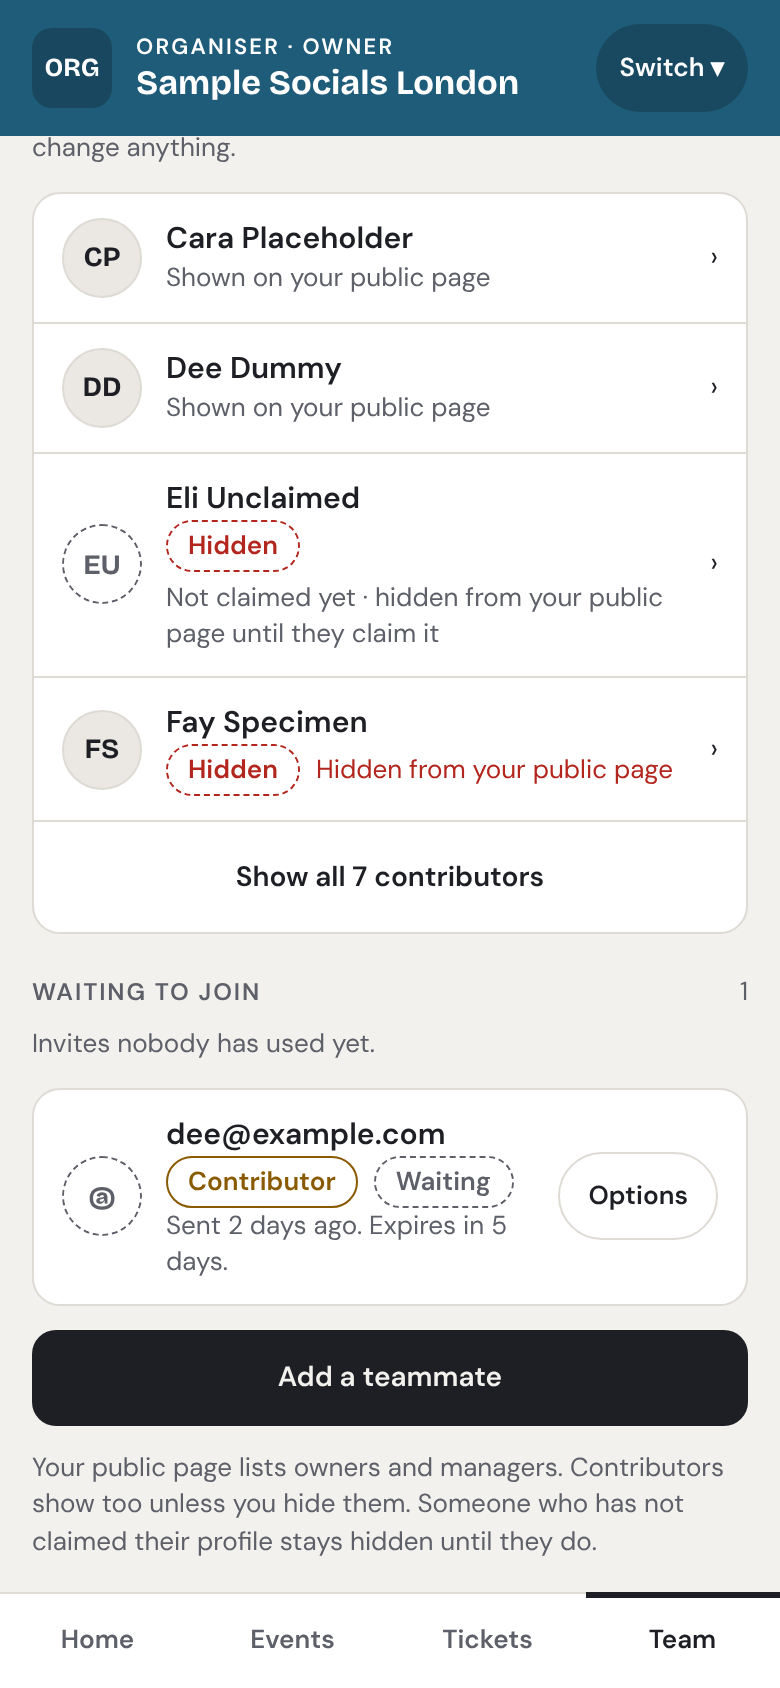
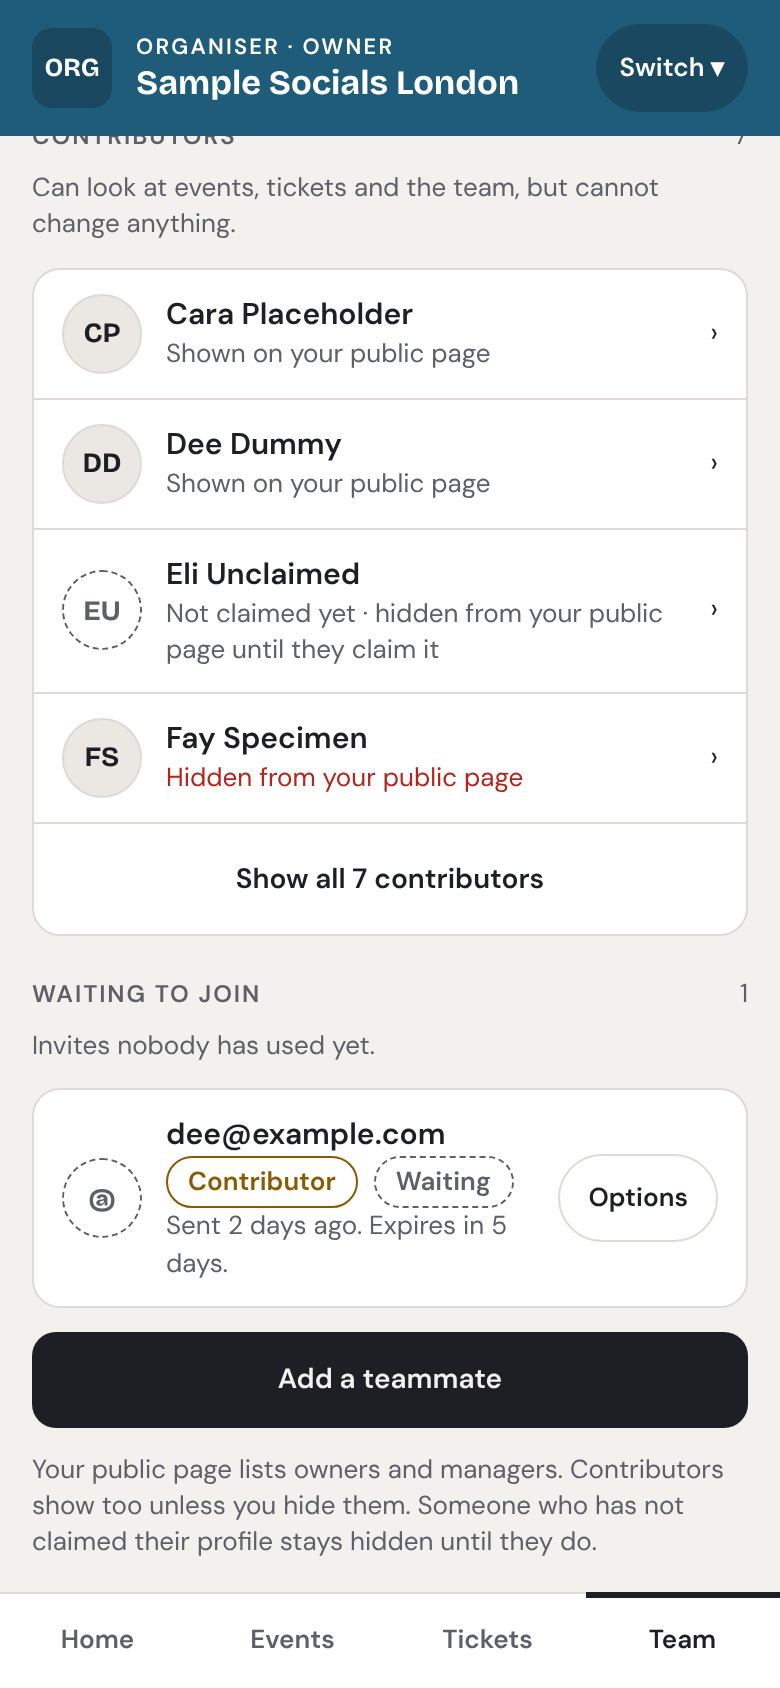
docs(organiser-team): fix round 2, contributor note and Waiting hidden, picked-row sliver, Hidden dedupe, end-scroll shots [worker-done dt_9117e94daf97]
Claude-Session: https://claude.ai/code/session_01WoGkiDr3eH8qkC2n9Y8F2C

diff --git a/docs/design/profile-dash/organiser-team-option-b.html b/docs/design/profile-dash/organiser-team-option-b.html
@@ -84,6 +84,7 @@ body.full .scroll{overflow:visible}
 .chip{font-size:12px;font-weight:700;border-radius:999px;padding:3px 10px;white-space:nowrap;flex:none;border:1px solid currentColor}
 .chip.owner{color:var(--c-org)}.chip.manager{color:var(--c-dj)}.chip.contributor{color:var(--c-teacher)}
 .chip.hid{color:var(--danger);border-style:dashed}
+.card:has(>.row.picked){overflow:hidden;flex:none}
 .row.picked{background:var(--ink-soft)}
 .tick{font-weight:700;min-width:20px;text-align:center}
 .chip.wait{color:var(--muted);border-style:dashed}.chip.bad{color:var(--danger)}
@@ -151,7 +152,7 @@ function group(s,r){
 }
 // Waiting to join: after Contributors, first 2 live invites, expired ones folded until "Show all".
 function waitGroup(s){
- if(!s.inv.length)return '';
+ if(!s.inv.length||!canEdit())return ''; // contributors cannot act on invites, so they do not see the group
  const rows=s.inv.map((v,i)=>[v,i]),live=rows.filter(x=>!x[0].bad),dead=rows.filter(x=>x[0].bad);
  const shown=OPEN.wait?live.concat(dead):live.slice(0,2);
  const rest=s.inv.length-shown.length;
@@ -220,7 +221,7 @@ function pubLine(p){
 function avatar(p){return `<span class="av ${p.stub?'stub':''}" aria-hidden="true">${ini(p.n)}</span>`}
 function personRow(p,i,showChip){
  const lbl=`${p.n}, ${ROLE[p.role].n}${p.stub?', not claimed yet':''}`;
- const inner=`${avatar(p)}<span class="t"><b>${p.n}</b><span class="meta">${showChip?chip(p.role):''}${p.hidden||p.stub?'<span class="chip hid">Hidden</span>':''}${pubLine(p)}</span></span>`;
+ const inner=`${avatar(p)}<span class="t"><b>${p.n}</b><span class="meta">${showChip?chip(p.role):''}${pubLine(p)}</span></span>`;
  return canEdit()?`<button class="row" data-act="person" data-k="${i}" aria-label="${lbl}. Open">${inner}<span aria-hidden="true">&rsaquo;</span></button>`:`<div class="row">${inner}</div>`;
 }
 // Contributors never see a full invitee email: d***@example.com.
@@ -246,6 +247,7 @@ function roleKey(){
  return `<div class="card">${ORDER.map(r=>`<div class="roleline">${chip(r)}<span>${ROLE[r].can}</span></div>`).join('')}</div>`;
 }
 function publicNote(){
+ if(!canEdit())return `<p class="why">The public page lists owners and managers. Contributors show unless an owner hides them. Someone who has not claimed their profile stays hidden until they do.</p>`;
  return `<p class="why">Your public page lists owners and managers. Contributors show too unless you hide them. Someone who has not claimed their profile stays hidden until they do.</p>`;
 }
 function loadingBody(){

diff --git a/docs/design/profile-dash/organiser-team-option-a.html b/docs/design/profile-dash/organiser-team-option-a.html
@@ -84,6 +84,7 @@ body.full .scroll{overflow:visible}
 .chip{font-size:12px;font-weight:700;border-radius:999px;padding:3px 10px;white-space:nowrap;flex:none;border:1px solid currentColor}
 .chip.owner{color:var(--c-org)}.chip.manager{color:var(--c-dj)}.chip.contributor{color:var(--c-teacher)}
 .chip.hid{color:var(--danger);border-style:dashed}
+.card:has(>.row.picked){overflow:hidden;flex:none}
 .row.picked{background:var(--ink-soft)}
 .tick{font-weight:700;min-width:20px;text-align:center}
 .chip.wait{color:var(--muted);border-style:dashed}.chip.bad{color:var(--danger)}
@@ -199,7 +200,7 @@ function pubLine(p){
 function avatar(p){return `<span class="av ${p.stub?'stub':''}" aria-hidden="true">${ini(p.n)}</span>`}
 function personRow(p,i,showChip){
  const lbl=`${p.n}, ${ROLE[p.role].n}${p.stub?', not claimed yet':''}`;
- const inner=`${avatar(p)}<span class="t"><b>${p.n}</b><span class="meta">${showChip?chip(p.role):''}${p.hidden||p.stub?'<span class="chip hid">Hidden</span>':''}${pubLine(p)}</span></span>`;
+ const inner=`${avatar(p)}<span class="t"><b>${p.n}</b><span class="meta">${showChip?chip(p.role):''}${pubLine(p)}</span></span>`;
  return canEdit()?`<button class="row" data-act="person" data-k="${i}" aria-label="${lbl}. Open">${inner}<span aria-hidden="true">&rsaquo;</span></button>`:`<div class="row">${inner}</div>`;
 }
 // Contributors never see a full invitee email: d***@example.com.
@@ -225,6 +226,7 @@ function roleKey(){
  return `<div class="card">${ORDER.map(r=>`<div class="roleline">${chip(r)}<span>${ROLE[r].can}</span></div>`).join('')}</div>`;
 }
 function publicNote(){
+ if(!canEdit())return `<p class="why">The public page lists owners and managers. Contributors show unless an owner hides them. Someone who has not claimed their profile stays hidden until they do.</p>`;
  return `<p class="why">Your public page lists owners and managers. Contributors show too unless you hide them. Someone who has not claimed their profile stays hidden until they do.</p>`;
 }
 function loadingBody(){

diff --git a/docs/design/profile-dash/tools/team-src/core.js b/docs/design/profile-dash/tools/team-src/core.js
@@ -50,7 +50,7 @@ function pubLine(p){
 function avatar(p){return `<span class="av ${p.stub?'stub':''}" aria-hidden="true">${ini(p.n)}</span>`}
 function personRow(p,i,showChip){
  const lbl=`${p.n}, ${ROLE[p.role].n}${p.stub?', not claimed yet':''}`;
- const inner=`${avatar(p)}<span class="t"><b>${p.n}</b><span class="meta">${showChip?chip(p.role):''}${p.hidden||p.stub?'<span class="chip hid">Hidden</span>':''}${pubLine(p)}</span></span>`;
+ const inner=`${avatar(p)}<span class="t"><b>${p.n}</b><span class="meta">${showChip?chip(p.role):''}${pubLine(p)}</span></span>`;
  return canEdit()?`<button class="row" data-act="person" data-k="${i}" aria-label="${lbl}. Open">${inner}<span aria-hidden="true">&rsaquo;</span></button>`:`<div class="row">${inner}</div>`;
 }
 // Contributors never see a full invitee email: d***@example.com.
@@ -76,6 +76,7 @@ function roleKey(){
  return `<div class="card">${ORDER.map(r=>`<div class="roleline">${chip(r)}<span>${ROLE[r].can}</span></div>`).join('')}</div>`;
 }
 function publicNote(){
+ if(!canEdit())return `<p class="why">The public page lists owners and managers. Contributors show unless an owner hides them. Someone who has not claimed their profile stays hidden until they do.</p>`;
  return `<p class="why">Your public page lists owners and managers. Contributors show too unless you hide them. Someone who has not claimed their profile stays hidden until they do.</p>`;
 }
 function loadingBody(){

diff --git a/docs/design/profile-dash/tools/team-src/team.css b/docs/design/profile-dash/tools/team-src/team.css
@@ -4,6 +4,7 @@
 .chip{font-size:12px;font-weight:700;border-radius:999px;padding:3px 10px;white-space:nowrap;flex:none;border:1px solid currentColor}
 .chip.owner{color:var(--c-org)}.chip.manager{color:var(--c-dj)}.chip.contributor{color:var(--c-teacher)}
 .chip.hid{color:var(--danger);border-style:dashed}
+.card:has(>.row.picked){overflow:hidden;flex:none}
 .row.picked{background:var(--ink-soft)}
 .tick{font-weight:700;min-width:20px;text-align:center}
 .chip.wait{color:var(--muted);border-style:dashed}.chip.bad{color:var(--danger)}

diff --git a/docs/design/profile-dash/tools/team-src/b.js b/docs/design/profile-dash/tools/team-src/b.js
@@ -18,7 +18,7 @@ function group(s,r){
 }
 // Waiting to join: after Contributors, first 2 live invites, expired ones folded until "Show all".
 function waitGroup(s){
- if(!s.inv.length)return '';
+ if(!s.inv.length||!canEdit())return ''; // contributors cannot act on invites, so they do not see the group
  const rows=s.inv.map((v,i)=>[v,i]),live=rows.filter(x=>!x[0].bad),dead=rows.filter(x=>x[0].bad);
  const shown=OPEN.wait?live.concat(dead):live.slice(0,2);
  const rest=s.inv.length-shown.length;

diff --git a/docs/design/profile-dash/organiser-team.md b/docs/design/profile-dash/organiser-team.md
@@ -18,7 +18,7 @@ All 12 critique fixes done. Why, in plain English:
 | 6 | "your public page" to a contributor | Contributors read **"Shown on the public page"**; owners and managers still read "your public page". | It is not the contributor's page. | `b-contributor` |
 | 7 | Contributor role line | **"Can look at events, tickets and the team, but cannot change anything."** (one shared copy in `core.js`). | Says what they can see, not just "the page". | every role list |
 | 8 | Error copy | **"Nothing was changed."** replaces "Your public page still shows the same people". | Short, true, and does not claim to know the public page state when the load failed. | `b-error` |
-| 9 | Invitee emails shown to contributors | Masked as **d\*\*\*@example.com** in Waiting rows for a contributor. | A contributor does not need someone else's full address. | `b-contributor` |
+| 9 | Invitee emails shown to contributors | Superseded in fix round 2 (see below): a contributor no longer sees the Waiting group at all, so there is nothing to mask. | A contributor cannot act on invites and does not need anyone's address. | `b-contributor` |
 | 10 | Find tab chip vs results | A picked person's result row shows a **tick and "Picked"**, shaded; tapping it again unpicks. | The chip and the results now agree. | `b-two-invite-find-picked` |
 | 11 | Contributor public switch | Two new sheet shots: Cara (switch on, "Shown now") and Fay (switch off, "Hidden now"). | Shows both sides of the per-person switch. | `b-two-person2`, `b-huge-person8` |
 | 12 | "Ritmo London" | Renamed to **"Sample Socials London"**. Read-only prod count (`organiser_profiles`, 51 rows): 0 named exactly "Ritmo London", but **2 real organisers contain "Ritmo"**, so the name was too close. 0 contain "Sample Social" or "Example". No names were read out. | Prototypes must never look like a real organiser. | every shot |
@@ -39,7 +39,7 @@ Docs/design only. No `src/` change, no DB write. The owner picks 1 of 2; an inde
 - **Files:** `organiser-team-option-a.html`, `organiser-team-option-b.html` (self-contained; the shape
   switch sits above the frame). They are GENERATED by `tools/team-build.mjs` from `tools/team-src/`
   (`core.js` = the one shared copy of every fact; `a.js` / `b.js` = layout only). Edit the source, rebuild.
-- **Screenshots:** `shots/organiser-team-option-b-<state>.png`, 21 states plus 3 scrolled-to-end shots, 390x844 at DPR 2 (A's shots removed after the pick).
+- **Screenshots:** `shots/organiser-team-option-b-<state>.png`, 21 states plus 7 scrolled-to-end shots (two, huge, pending-more-wait, contributor, solo, stub, lastowner), 390x844 at DPR 2 (A's shots removed after the pick).
 - **Checks:** `node docs/design/profile-dash/tools/team-shots.mjs` -> `organiser-team-checks.json`.
   Original round: 34/34 pass; fix round: 21/21 (B only). Every tap target >= 44x44, every text >= 4.5:1 contrast (min 5.15), no sideways scroll, no
   clipped text.
@@ -171,6 +171,25 @@ card plus search push the team down.
 accidental role changes and is cramped at 390px; (2) swipe-to-remove rows: hidden, and removal must
 confirm and explain anyway; (3) a separate Invites tab: splits one small job across two places;
 (4) A with group headings (a hybrid): ends up as B with an extra card.
+
+## Fix round 2 on Option B (brief `docs/briefs/profile-dash-organiser-team-fix2.md`, PR #1581)
+
+| # | Finding | Change | Shot |
+|---|---|---|---|
+| 1 | Contributor public note pointed at a missing control | Contributors read **"The public page lists owners and managers. Contributors show unless an owner hides them."** Owners and managers keep the "hide them" wording. | `b-contributor-end` (note visible) |
+| 2 | Contributor saw the whole Waiting group | **Decision: hidden from contributors.** They cannot act on invites (no emails, no actions), so the group, its counts and expired rows are not drawn for them. Owners and managers are unchanged. | `b-contributor`, `b-contributor-end` |
+| 3a | Sliver above the picked result row | The shaded picked row now clips to the card's rounded corners. | `b-two-invite-find-picked` |
+| 3b | "Hidden" shown twice on a row | The red Hidden chip is gone; the line "Hidden from your public page" (or "Not claimed yet, hidden until they claim it") says it once. | `b-huge-end`, `b-stub` |
+| 4 | Not every list state was end-scrolled | Added end-scroll shots for contributor, solo, stub and lastowner. Every list state now has one. | `b-*-end` |
+
+Row 5 of the first fix round (red Hidden chip) is superseded by 3b. Checks re-run: 21/21 option-states pass at 390x844
+(contrast min 5.15, tap targets all >= 44, no sideways scroll, last row clears the tab bar); `organiser-team-checks.json` regenerated.
+
+## Handover (fix round 2, 2026-11-12)
+
+- **Done:** the four review findings above; shots and `organiser-team-checks.json` regenerated (21/21 pass). Docs only.
+- **Not verified:** not on a real phone; no app code, so no browser walk of a running route; contributor behaviour of the Waiting group is a design decision, not an ACL fact.
+- **tsc:** not run (docs, HTML and PNG only; branch has no TS).
 
 ## Handover (fix round, 2026-11-12)
 
